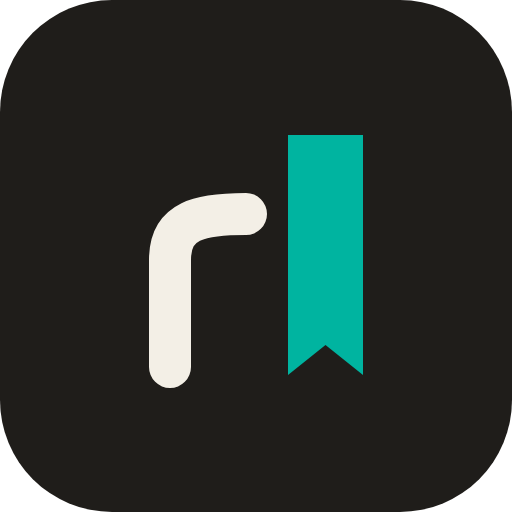
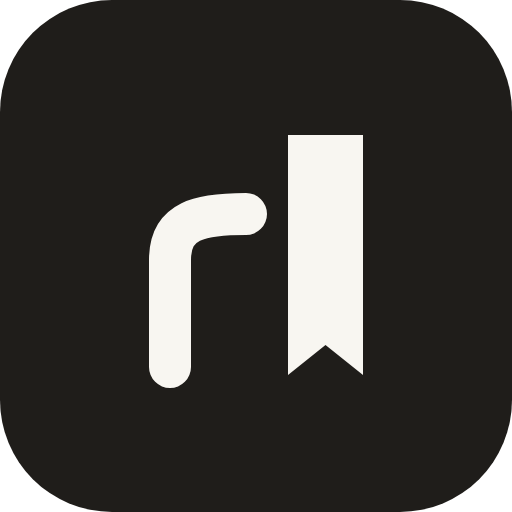
style(ui): volta ao visual de papel e usa a nova marca em versões claro e escuro (#12)

Changed region(s): [[0.5625, 0.25, 0.7188, 0.75]]

diff --git a/src/styles/global.css b/src/styles/global.css
@@ -22,27 +22,20 @@
   color: #1f1d1a;
   background: #f8f6f1;
   font-synthesis: none;
-  /* Warm paper and ink; dark cyan from the club mark is the one accent. */
+  /* Warm paper tones: easier on the eyes for a reading club. */
   --bg: #f8f6f1;
   --soft: #f1eee7;
   --surface: #fdfcf9;
   --ink: #1f1d1a;
   --muted: #5c5851;
   --line: #e3ded4;
-  /* One teal per theme: dark cyan on paper, the bright mark teal at night. */
-  --accent: #00756a;
-  --accent-soft: #e2eee9;
-  --brand: #00756a;
-  --primary: #00756a;
-  --primary-hover: #00665c;
-  --on-primary: #fdfcf9;
+  --accent: #1f1d1a;
+  --accent-soft: #e9e5dc;
   --cover: #292929;
-  --mono: ui-monospace, "JetBrains Mono", Menlo, Consolas, monospace;
   --shadow: 0 18px 40px -30px rgb(60 48 30 / 0.35);
   --serif: Literata, Georgia, serif;
   color-scheme: light;
 }
-/* Warm charcoal at night, the same cyan brighter. */
 :root[data-theme="dark"] {
   --bg: #191814;
   --surface: #211f1b;
@@ -50,12 +43,8 @@
   --ink: #f0ede6;
   --muted: #b7b1a6;
   --line: #3a3731;
-  --accent: #00b4a0;
-  --accent-soft: #1f2d29;
-  --brand: #00b4a0;
-  --primary: #00b4a0;
-  --primary-hover: #2cc4b0;
-  --on-primary: #191814;
+  --accent: #f0ede6;
+  --accent-soft: #312e28;
   --shadow: 0 18px 40px -30px rgb(0 0 0 / 0.6);
   background: var(--bg);
   color: var(--ink);
@@ -316,14 +305,14 @@ main {
   color: var(--ink);
 }
 .button.primary {
-  background: var(--primary);
-  color: var(--on-primary);
-  border-color: var(--primary);
+  background: var(--ink);
+  color: var(--bg);
+  border-color: var(--ink);
 }
 .button.primary:hover {
-  background: var(--primary-hover);
-  border-color: var(--primary-hover);
-  color: var(--on-primary);
+  background: var(--accent);
+  border-color: var(--accent);
+  color: var(--bg);
 }
 .small-button {
   padding: 8px 13px;
@@ -395,30 +384,26 @@ main {
 }
 .brand {
   display: flex;
-  gap: 11px;
+  gap: 12px;
   align-items: center;
   flex-shrink: 0;
-  font-size: 1.1rem;
+  font-family: var(--serif);
+  font-size: 1.12rem;
   line-height: 1.2;
-  letter-spacing: -0.03em;
+  letter-spacing: -0.04em;
 }
 .brand-mark {
   flex-shrink: 0;
-  border-radius: 22%;
 }
-.wordmark-name strong {
-  font-weight: 700;
+.brand-mark-tile {
+  fill: var(--ink);
 }
-.wordmark-name span {
-  color: var(--muted);
+.brand-mark-ribbon {
+  fill: var(--bg);
 }
-.brand-icon {
-  width: 36px;
-  height: 36px;
-  border: 1px solid var(--line);
-  border-radius: 50%;
-  display: grid;
-  place-items: center;
+.brand-mark-letter {
+  fill: none;
+  stroke: var(--bg);
 }
 .brand small {
   display: block;
@@ -453,8 +438,8 @@ main {
   bottom: 2px;
   left: 0;
   right: 0;
-  height: 2px;
-  background: var(--brand);
+  height: 1px;
+  background: var(--ink);
 }
 .header-actions {
   display: flex;
@@ -492,7 +477,7 @@ main {
   display: inline-block;
   width: 6px;
   height: 6px;
-  background: var(--brand);
+  background: var(--ink);
   border-radius: 100%;
   box-shadow: 0 0 0 3px var(--accent-soft);
 }
@@ -741,7 +726,7 @@ main {
 .manifesto span + span::before {
   content: "·";
   margin-right: 20px;
-  color: var(--brand);
+  color: var(--muted);
 }
 .manifesto svg {
   margin-left: auto;
@@ -839,7 +824,7 @@ main {
   border-top: 1px solid var(--line);
 }
 .format-list li > span {
-  font-family: var(--mono);
+  font-family: ui-monospace, Consolas, monospace;
   font-size: 0.8rem;
   color: var(--muted);
   padding-top: 5px;
@@ -2046,7 +2031,7 @@ legend {
     gap: 10px;
     min-height: 58px;
   }
-  .brand-icon {
+  .brand-mark {
     width: 32px;
     height: 32px;
   }
@@ -2781,34 +2766,4 @@ legend {
 }
 .rsvp-link-page .whatsapp-actions {
   margin: 20px 0 28px;
-}
-
-/* Club mark motifs: the terminal prompt of "readline" and the bookmark ribbon. */
-.prompt-line {
-  font-family: var(--mono);
-  font-size: 0.8rem;
-  letter-spacing: 0;
-}
-.prompt-line .prompt,
-.prompt-line .cursor {
-  color: var(--accent);
-  font-weight: 600;
-}
-.hero-book::before,
-.next-meeting::before {
-  content: "";
-  position: absolute;
-  top: 0;
-  right: 28px;
-  width: 18px;
-  height: 40px;
-  background: var(--brand);
-  clip-path: polygon(0 0, 100% 0, 100% 100%, 50% 78%, 0 100%);
-}
-.next-meeting,
-.hero-book {
-  position: relative;
-}
-.hero-book::before {
-  z-index: 1;
 }

diff --git a/src/components/BrandMark.tsx b/src/components/BrandMark.tsx
@@ -1,5 +1,7 @@
-// The club mark: a bookmark ribbon beside a lowercase "r", on a graphite tile.
-export function BrandMark({ size = 34 }: { size?: number }) {
+// The club mark: a bookmark ribbon beside a lowercase "r". It takes the
+// theme's ink for the tile and the page color for the drawing, so it flips
+// between the light and dark themes.
+export function BrandMark({ size = 36 }: { size?: number }) {
   return (
     <svg
       className="brand-mark"
@@ -8,12 +10,14 @@ export function BrandMark({ size = 34 }: { size?: number }) {
       height={size}
       aria-hidden="true"
     >
-      <rect width="512" height="512" rx="112" fill="#1F1D1A" />
-      <path d="M288 135h75v240l-37.5-30-37.5 30Z" fill="#00B4A0" />
+      <rect className="brand-mark-tile" width="512" height="512" rx="112" />
       <path
+        className="brand-mark-ribbon"
+        d="M288 135h75v240l-37.5-30-37.5 30Z"
+      />
+      <path
+        className="brand-mark-letter"
         d="M170 367V260c0-40 30-46 76-46"
-        fill="none"
-        stroke="#F3EFE6"
         strokeWidth="42"
         strokeLinecap="round"
       />

diff --git a/src/app.tsx b/src/app.tsx
@@ -44,16 +44,6 @@ function Protected({
   if (admin && user.role !== "admin") return <Navigate to="/" replace />;
   return children;
 }
-// Same rhythm as the logo: the first word strong, the rest quieter.
-function Wordmark({ name }: { name: string }) {
-  const [first, ...rest] = name.split(" ");
-  return (
-    <span className="wordmark-name">
-      <strong>{first}</strong>
-      {rest.length > 0 && <span> {rest.join(" ")}</span>}
-    </span>
-  );
-}
 function Layout() {
   const { user, home, error, loading, refresh } = useSession();
   const [menu, setMenu] = useState(false);
@@ -146,8 +136,8 @@ function Layout() {
             aria-label={home?.settings.club_name || "readline club"}
           >
             <BrandMark />
-            <span className="wordmark">
-              <Wordmark name={home?.settings.club_name || "readline club"} />
+            <span>
+              {home?.settings.club_name || "readline club"}
               <small>clube do livro de computação</small>
             </span>
           </Link>

diff --git a/src/pages/Home.tsx b/src/pages/Home.tsx
@@ -179,14 +179,9 @@ export default function Home() {
     <>
       <section className="container hero">
         <div className="hero-copy">
-          <div className="eyebrow prompt-line">
-            <span className="prompt" aria-hidden="true">
-              $
-            </span>
-            ler computação, capítulo por capítulo
-            <span className="cursor" aria-hidden="true">
-              _
-            </span>
+          <div className="eyebrow">
+            <span className="live-dot" />
+            Clube do livro de computação · gratuito
           </div>
           <h1>
             A bagagem teórica que a sua carreira precisa.{" "}

diff --git a/tests/interface.test.tsx b/tests/interface.test.tsx
@@ -51,9 +51,7 @@ test("owner tools stay inside the account page, outside the navigation bar", asy
   ).toBeTruthy();
   expect(within(screen.getByRole("banner")).queryByText(/admin/i)).toBeNull();
   expect(
-    within(screen.getByRole("banner")).getByRole("link", {
-      name: "readline club",
-    }),
+    within(screen.getByRole("banner")).getByText("readline club"),
   ).toBeTruthy();
   expect(
     within(screen.getByRole("banner")).getByRole("link", {

diff --git a/docs/operacao.md b/docs/operacao.md
@@ -119,4 +119,11 @@ O Worker antigo contém apenas `worker/legacy-redirect.ts`, publicado com `npm r
 
 ## Ícones
 
-A marca está em `public/favicon.svg` (a mesma de `src/components/BrandMark.tsx`). O ICO e os PNG de atalho (`icon-32`, `icon-192`, `icon-512` e `apple-touch-icon`, este sem cantos arredondados, porque o iOS arredonda) são exportados desse SVG; ao mudar a marca, exporte de novo os cinco arquivos.
+A marca (a fita marcadora ao lado do "r") tem duas versões, com as cores exatas de cada tema: **grafite** (quadrado `#1F1D1A`, desenho `#F8F6F1`), usada no tema claro, e **papel** (quadrado `#F0EDE6`, desenho `#191814`), usada no tema escuro.
+
+- `src/components/BrandMark.tsx`: o símbolo do cabeçalho e do rodapé, que troca de versão junto com o tema do site.
+- `public/favicon.svg`: o ícone da aba, que troca de versão conforme o tema do sistema.
+- `public/favicon.ico`, `icon-32.png`, `icon-192.png`, `icon-512.png` e `apple-touch-icon.png`: versão grafite. O `apple-touch-icon` não tem cantos arredondados, porque o iOS arredonda.
+- `brand/`: os SVGs das duas versões e PNGs para redes sociais: `-512` com cantos arredondados e `-perfil-1080`/`-perfil-400` quadrados, para fotos de perfil (as redes recortam em círculo).
+
+Ao mudar a marca, exporte de novo os PNG e o ICO a partir dos SVGs.

diff --git a/README.md b/README.md
@@ -66,8 +66,9 @@ Interface em React, API em [Hono](https://hono.dev) sobre Cloudflare Pages Funct
 | `migrations/` | Estrutura do banco de dados.          |
 | `tests/`      | Testes automatizados.                 |
 | `docs/`       | Documentação interna.                 |
+| `brand/`      | Marca do clube em SVG e PNG.          |
 
-A direção visual parte da marca do clube (a fita marcadora teal ao lado do "r", sobre grafite): fundo cor de papel no tema claro e grafite quente no escuro, um único teal como acento (escuro sobre o papel, vivo à noite), fontes Instrument Sans e Literata e divisórias discretas.
+A direção visual usa as fontes Literata e Instrument Sans, divisórias discretas e temas claro e escuro.
 
 ## Licença
 
